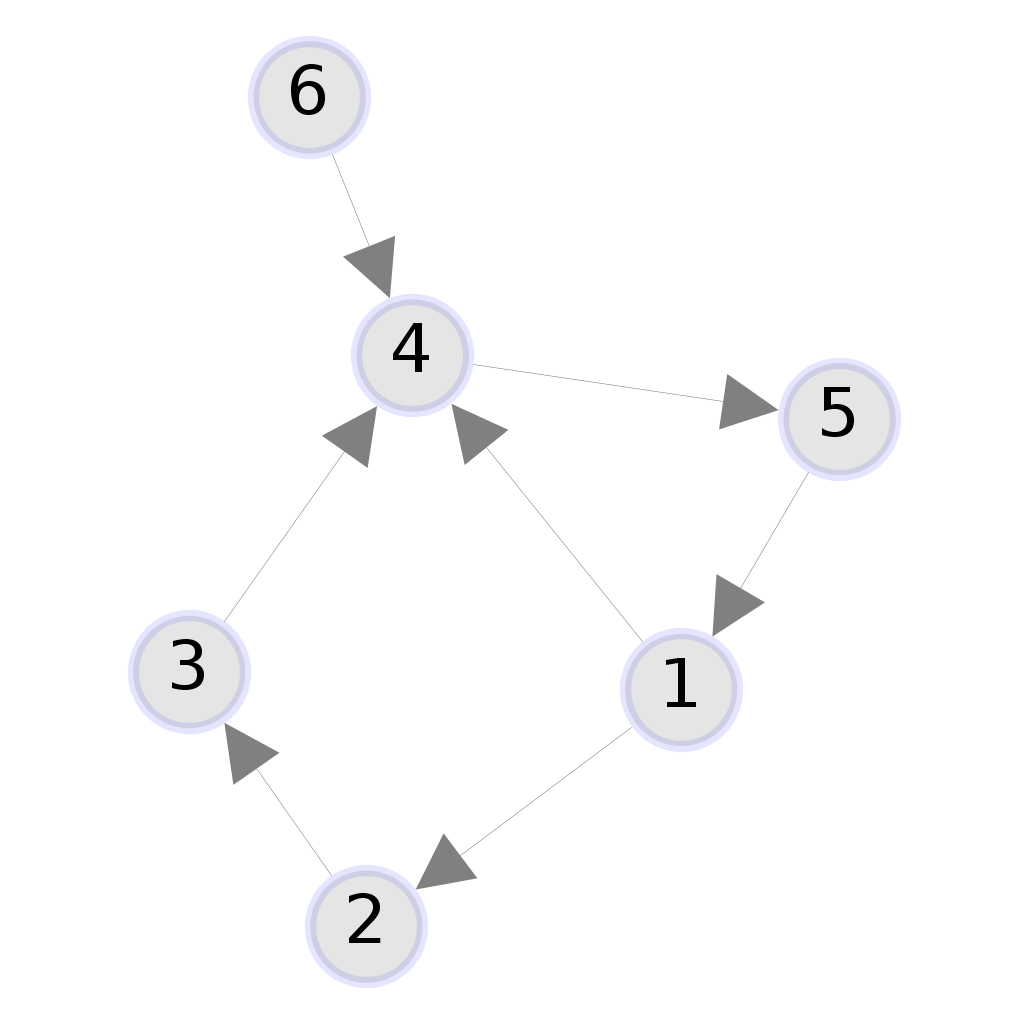
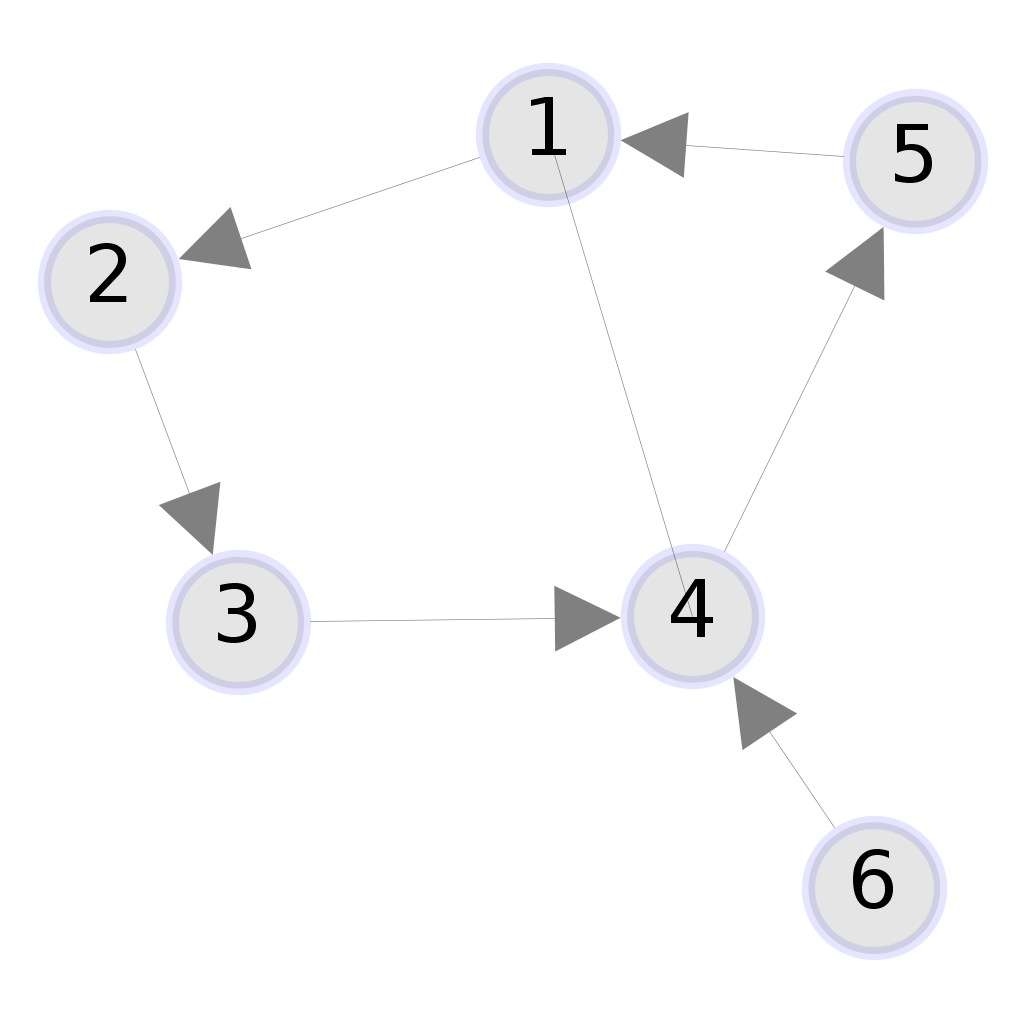
Mix directed and undirected edges

diff --git a/README.md b/README.md
@@ -19,4 +19,4 @@ The library is built with [Mill](http://www.lihaoyi.com/mill).
 ### Draw a graph
 Add the `Drawable` trait to your project and use the `makeImage(g: Graph[N, E], path: String, name: String)` method to draw a **PNG** raster image file or an **SVG** vectorial image file.
 > ![directed graph image](docs/directed.png)
-> _`Graph(1 ~> 2, 2 ~> 3, 3 ~> 4, 4 ~> 5, 5 ~> 1, 1 ~> 4, 6 ~> 4)`_
+> _`Graph(1 ~> 2, 2 ~> 3, 3 ~> 4, 4 ~> 5, 5 ~> 1, 1 ~ 4, 6 ~> 4)`_
